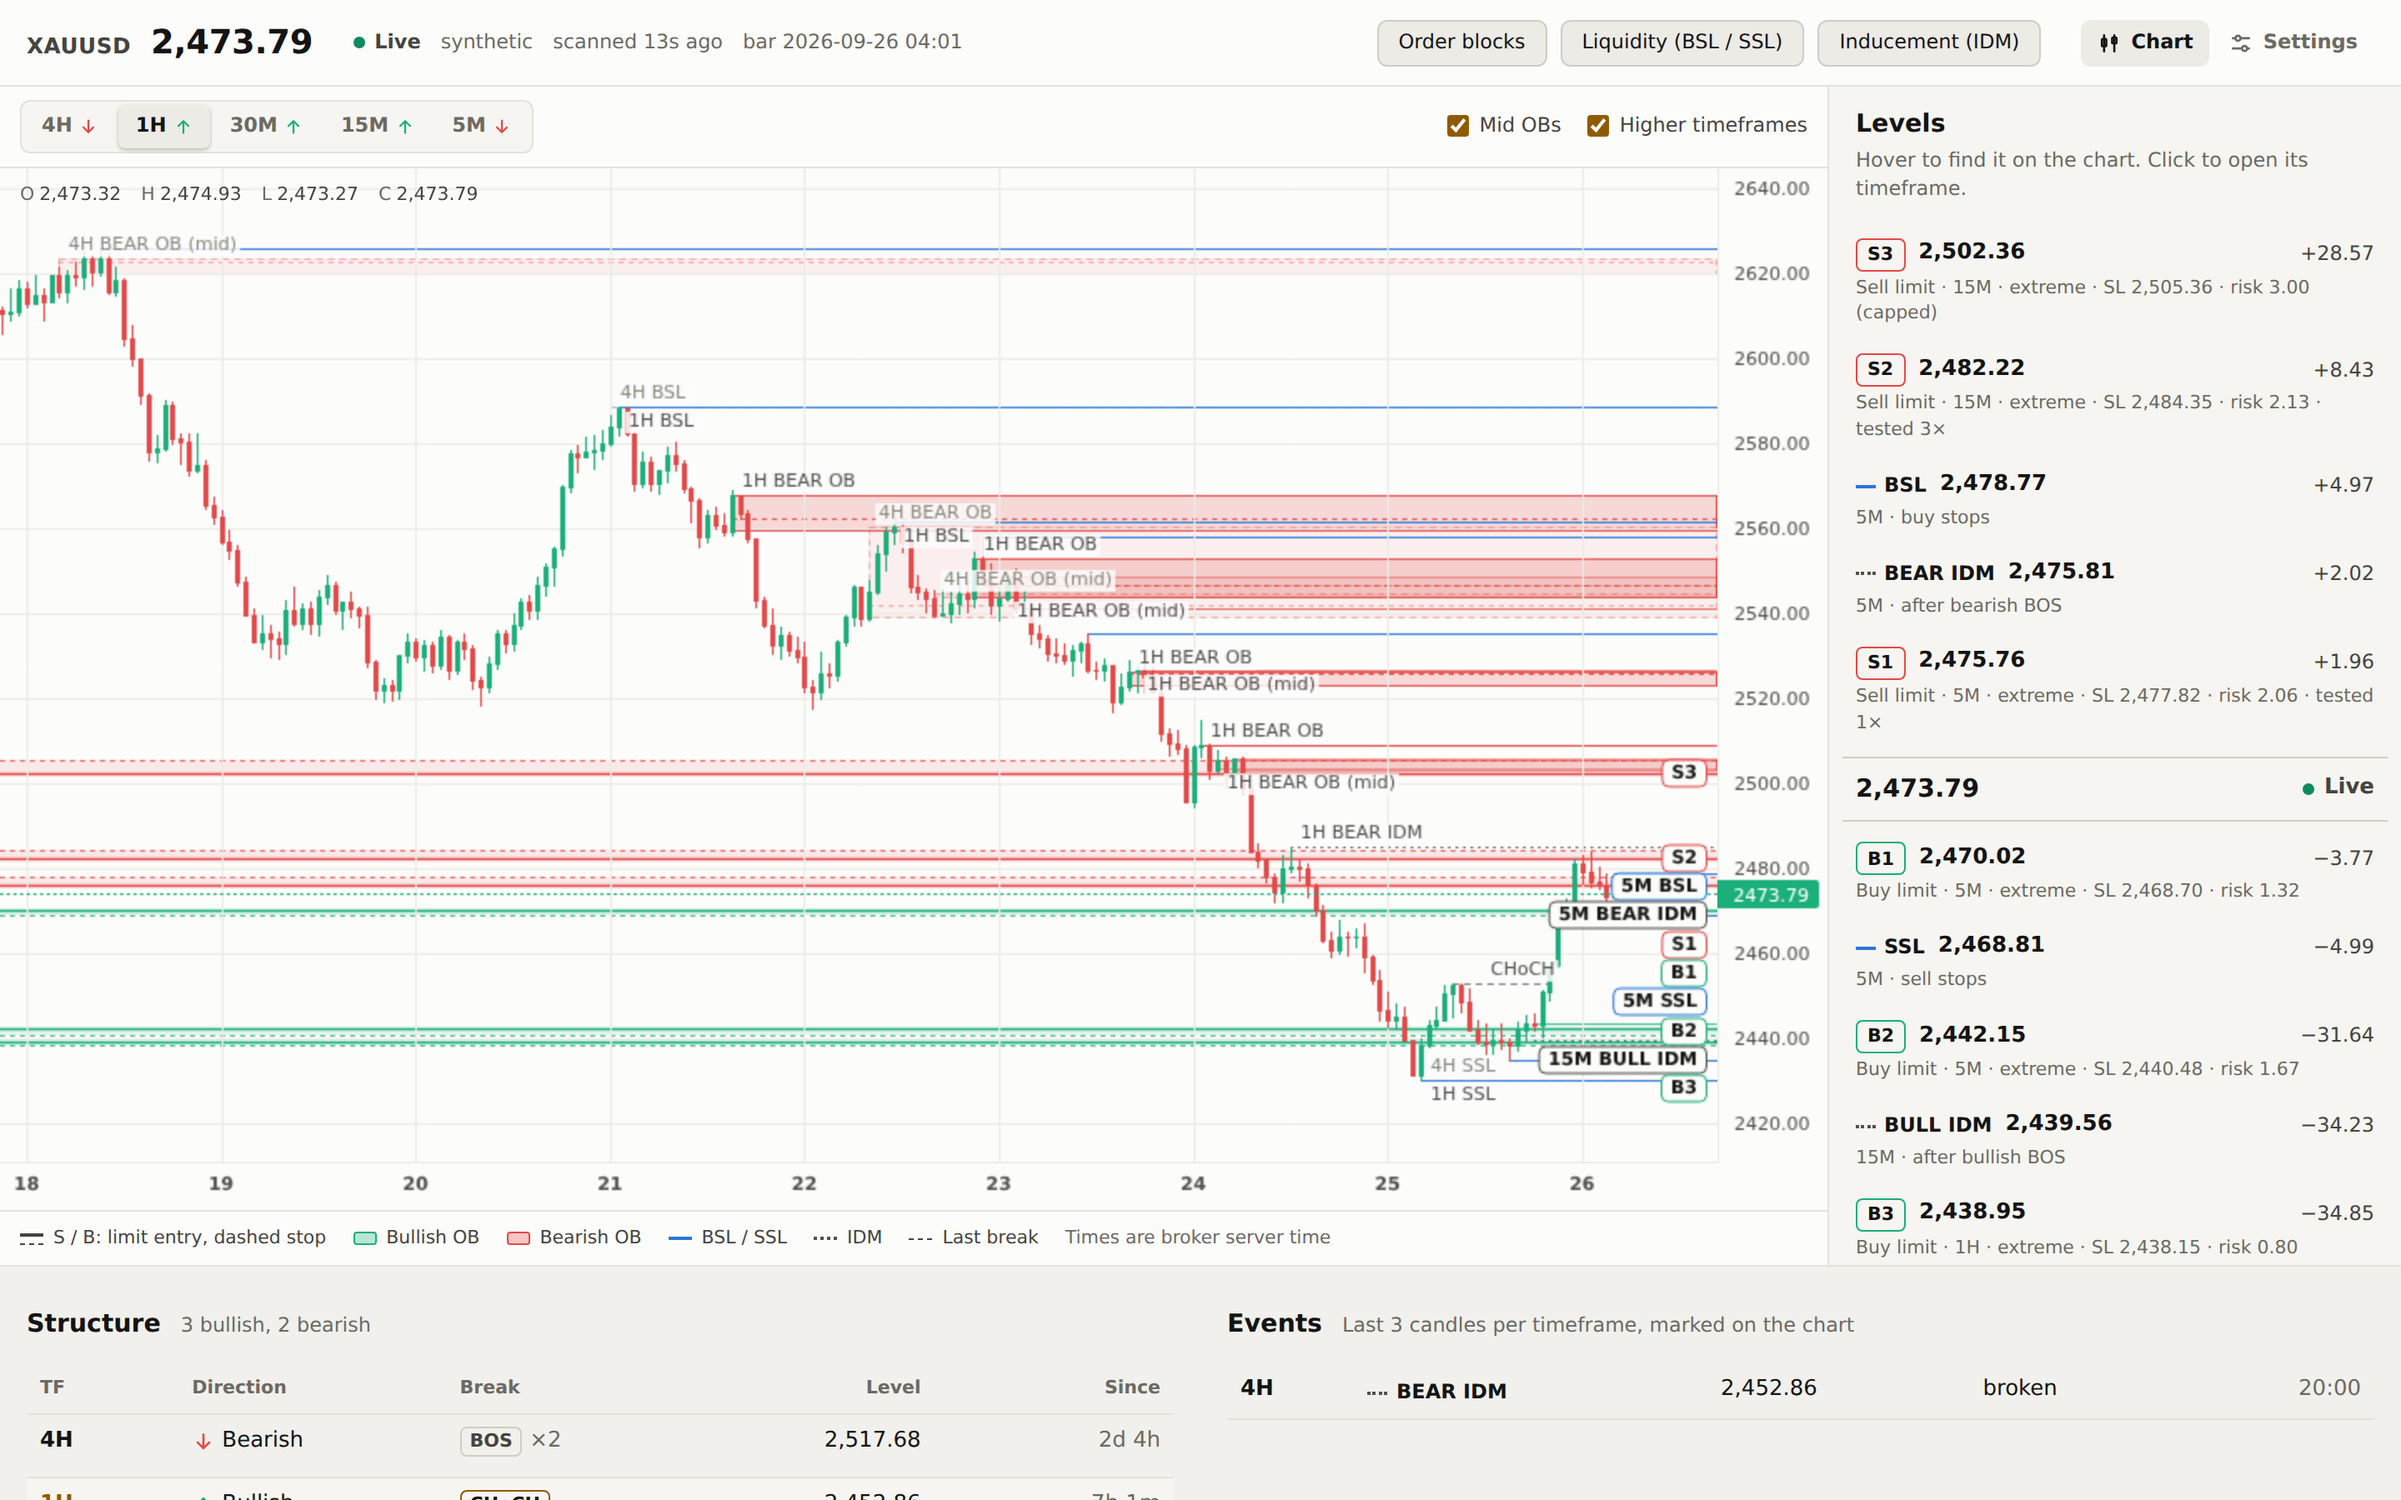
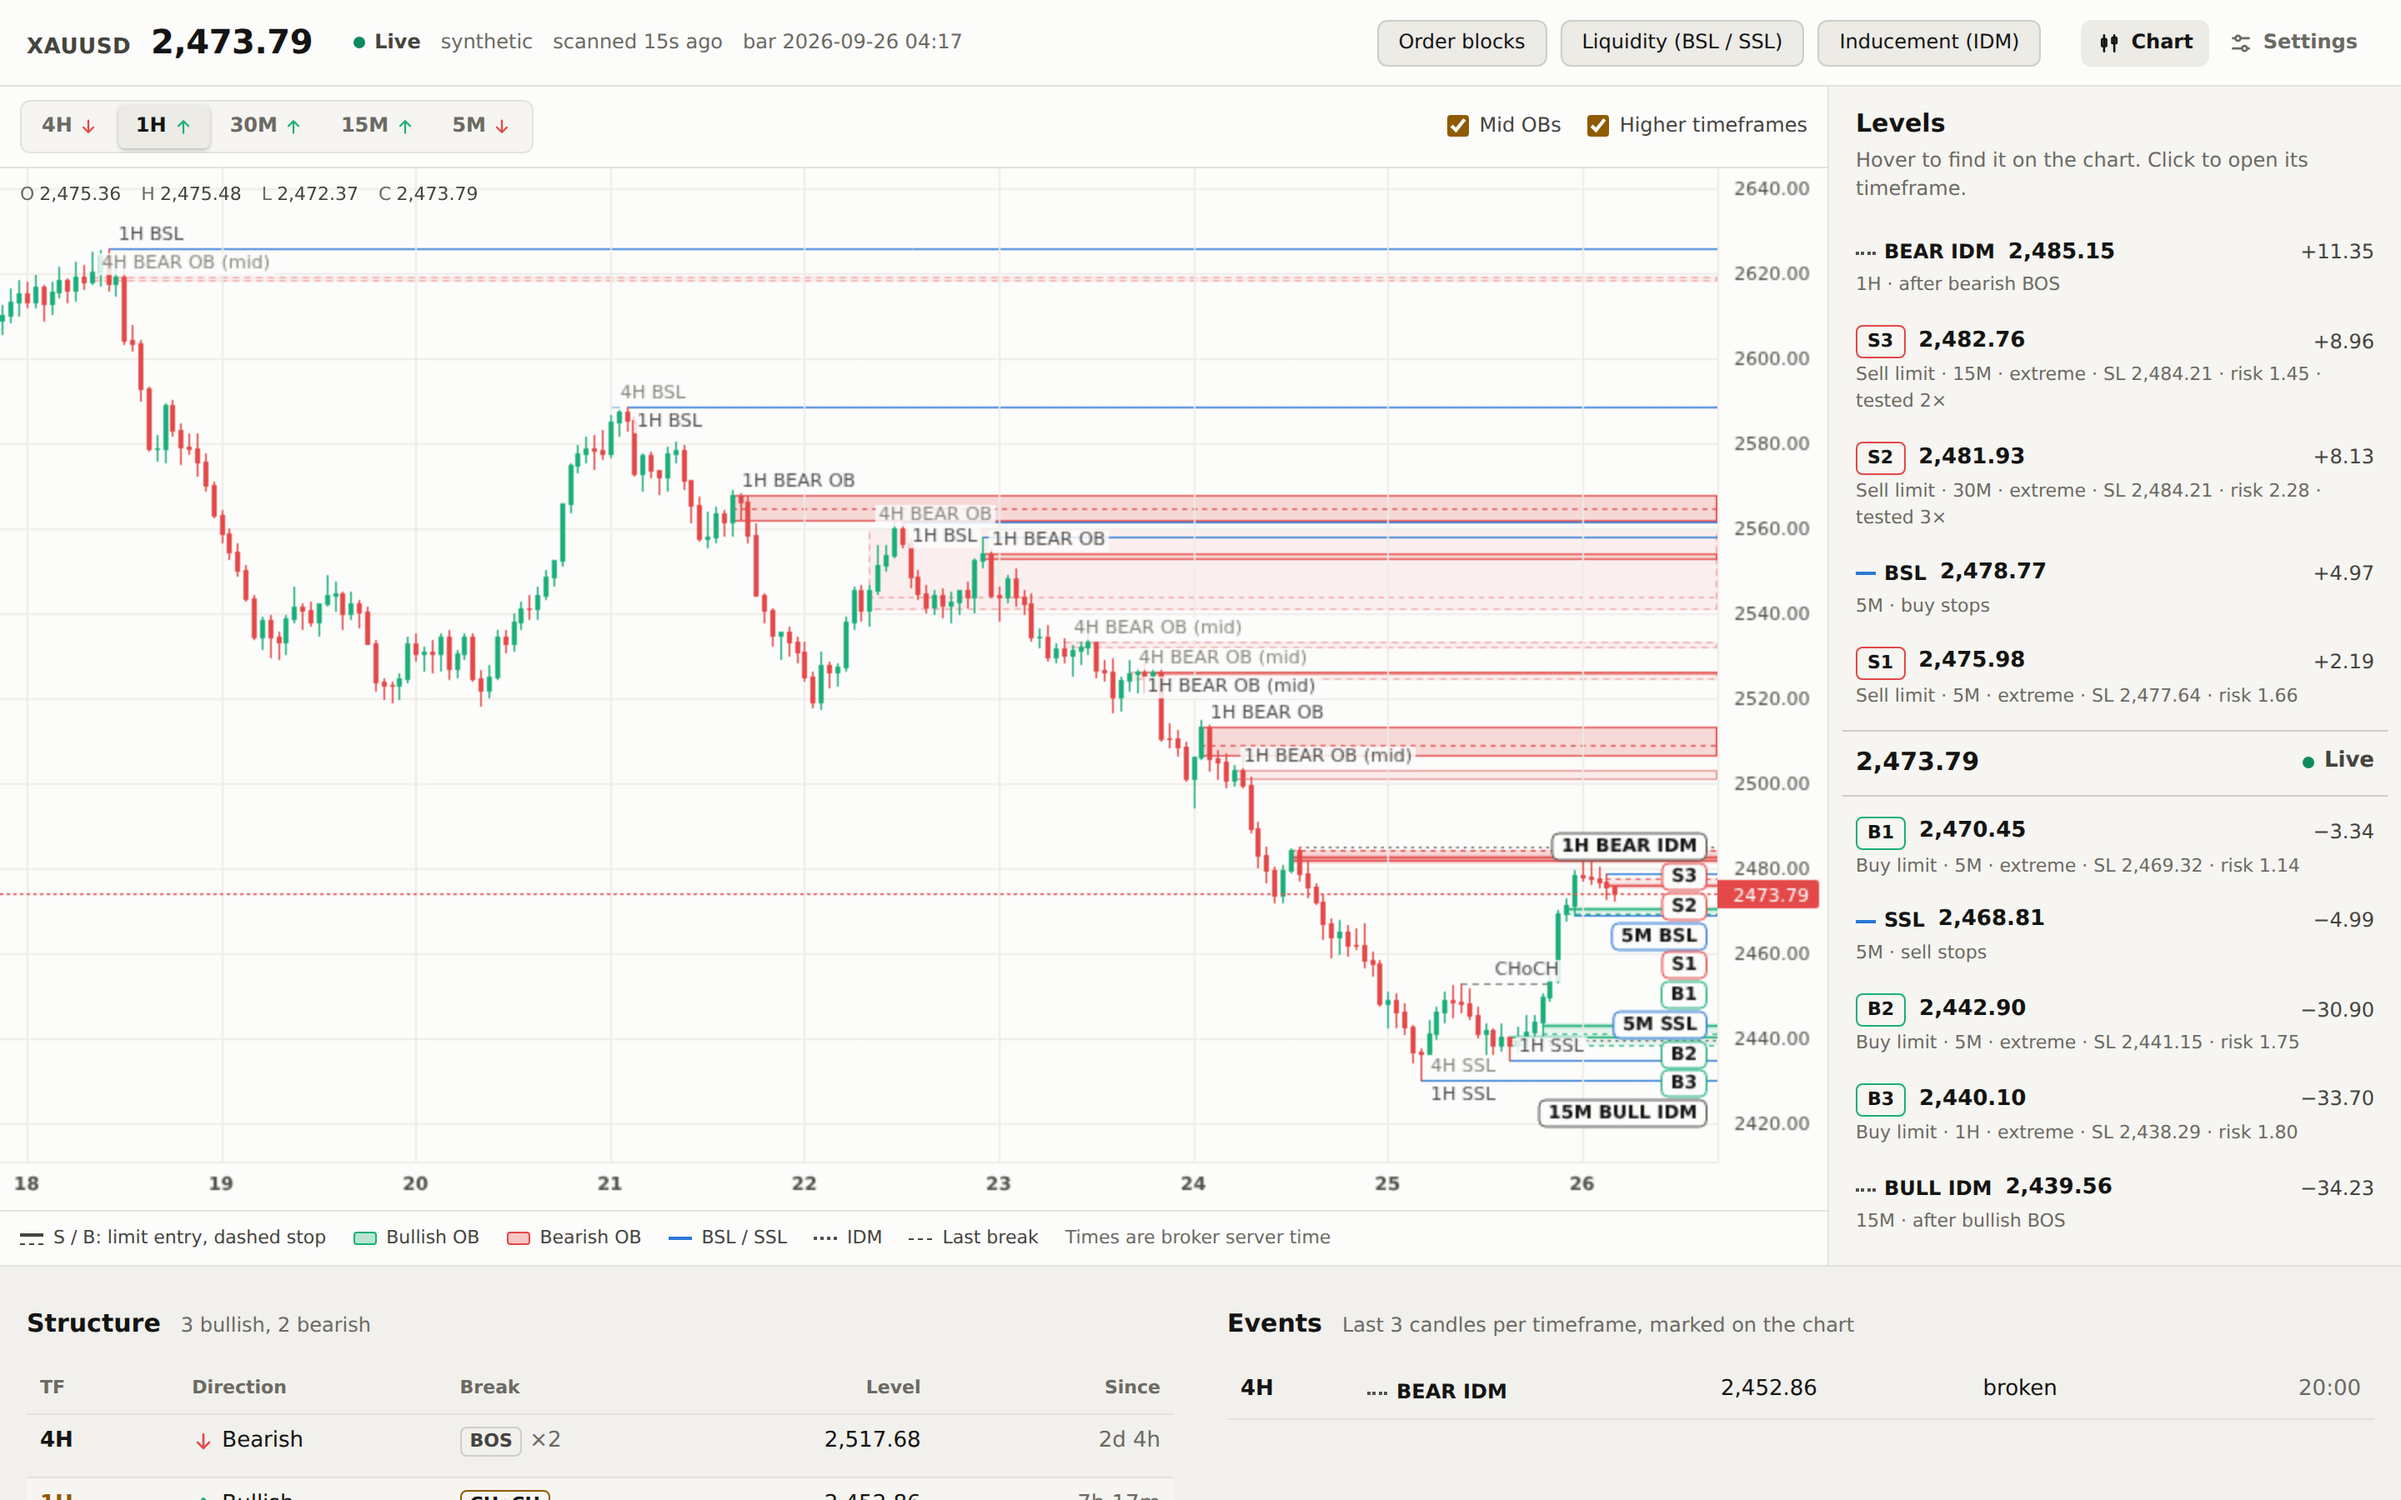
Start limit setups at their order block candle instead of the chart's left edge
Setup lines were drawn across the whole chart, and a level from a lower
timeframe snapped to the next bar of the charted timeframe. Every mark now
starts at the bar that contains its candle. Screenshots refreshed.

Claude-Session: https://claude.ai/code/session_01PLHgJDCBn72bRHLxBKFCkq

diff --git a/web/src/zonesPrimitive.ts b/web/src/zonesPrimitive.ts
@@ -18,8 +18,11 @@ import { withAlpha, type ChartPalette } from "./theme";
  * Something drawn on the chart. Marks:
  * - box:     order block body (bull/bear), optional dashed capped stop
  * - line:    liquidity (solid; 2px for equal pools) or IDM (dotted), to the right edge
- * - setup:   a limit setup: solid entry line, dashed stop, tinted risk band, pill with its id
+ * - setup:   a limit setup from its order block candle: solid entry line, dashed stop, tinted risk band, pill with its id
  * - segment: a break of structure, from the broken swing to the break candle
+ *
+ * Every mark starts at the bar holding the level's candle; a level from a lower
+ * timeframe starts at the bar that contains its candle.
  *
  * Pinned zones (the ones listed next to the chart) always carry a pill; when
  * they sit outside the visible price range the pill docks to the top/bottom edge.
@@ -51,6 +54,12 @@ function indexAtOrAfter(times: number[], t: number): number {
     else hi = mid;
   }
   return lo;
+}
+
+/** Index of the bar that contains time t (a lower-timeframe level falls inside a bigger bar). */
+function barIndexOf(times: number[], t: number): number {
+  const i = indexAtOrAfter(times, t);
+  return i < times.length && times[i] === t ? i : Math.max(0, i - 1);
 }
 
 function colorOf(role: Zone["role"], p: ChartPalette): string {
@@ -88,7 +97,7 @@ class ZonesRenderer implements IPrimitivePaneRenderer {
       const H = bitmapSize.height;
       const px = (v: number) => Math.round(v * hr);
       const py = (v: number) => Math.round(v * vr);
-      const xOf = (t: number) => Math.max(0, px(timeScale.logicalToCoordinate(indexAtOrAfter(times, t) as Logical) ?? 0));
+      const xOf = (t: number) => Math.max(0, px(timeScale.logicalToCoordinate(barIndexOf(times, t) as Logical) ?? 0));
       const yOf = (price: number) => {
         const y = series.priceToCoordinate(price);
         return y === null ? null : py(y);
@@ -120,8 +129,9 @@ class ZonesRenderer implements IPrimitivePaneRenderer {
       for (const z of order) {
         const color = colorOf(z.role, palette);
         const k = dim(z);
-        const x = z.mark === "setup" ? 0 : xOf(z.startTime);
-        if (x >= W) continue;
+        // A setup keeps its pill even when its order block candle is scrolled off to the right.
+        const x = Math.min(xOf(z.startTime), W);
+        if (x >= W && z.mark !== "setup") continue;
 
         if (z.mark === "segment") {
           const y = yOf(z.top);
@@ -141,12 +151,12 @@ class ZonesRenderer implements IPrimitivePaneRenderer {
           if (onScreen) {
             if (ys !== null) {
               ctx.fillStyle = withAlpha(color, (z.id === highlight ? 0.22 : 0.1) * k);
-              if (shapes) ctx.fillRect(0, Math.min(ye, ys), W, Math.max(1, Math.abs(ys - ye)));
+              if (shapes) ctx.fillRect(x, Math.min(ye, ys), W - x, Math.max(1, Math.abs(ys - ye)));
               ctx.strokeStyle = withAlpha(color, 0.8 * k);
-              hline(0, W, ys, lw, [3 * hr, 3 * hr]);
+              hline(x, W, ys, lw, [3 * hr, 3 * hr]);
             }
             ctx.strokeStyle = withAlpha(color, k);
-            hline(0, W, ye, (z.id === highlight ? 2 : 1.5) * lw, []);
+            hline(x, W, ye, (z.id === highlight ? 2 : 1.5) * lw, []);
           }
           pills.push({ z, y: ye, off: ye < 0 ? -1 : ye > H ? 1 : 0 });
           continue;
